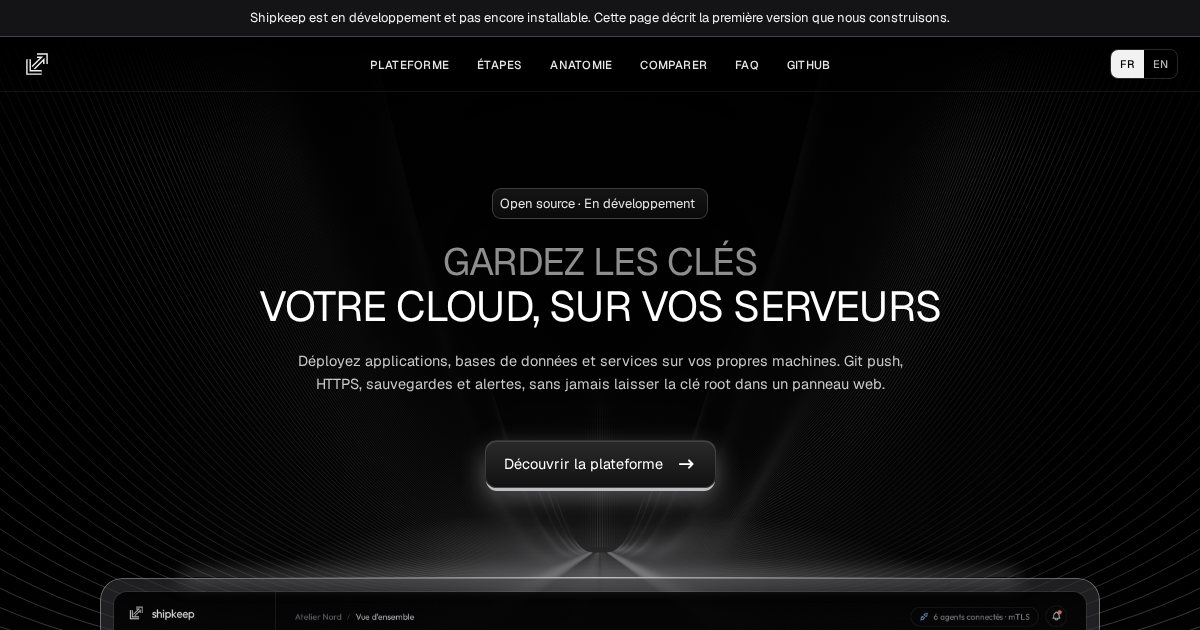
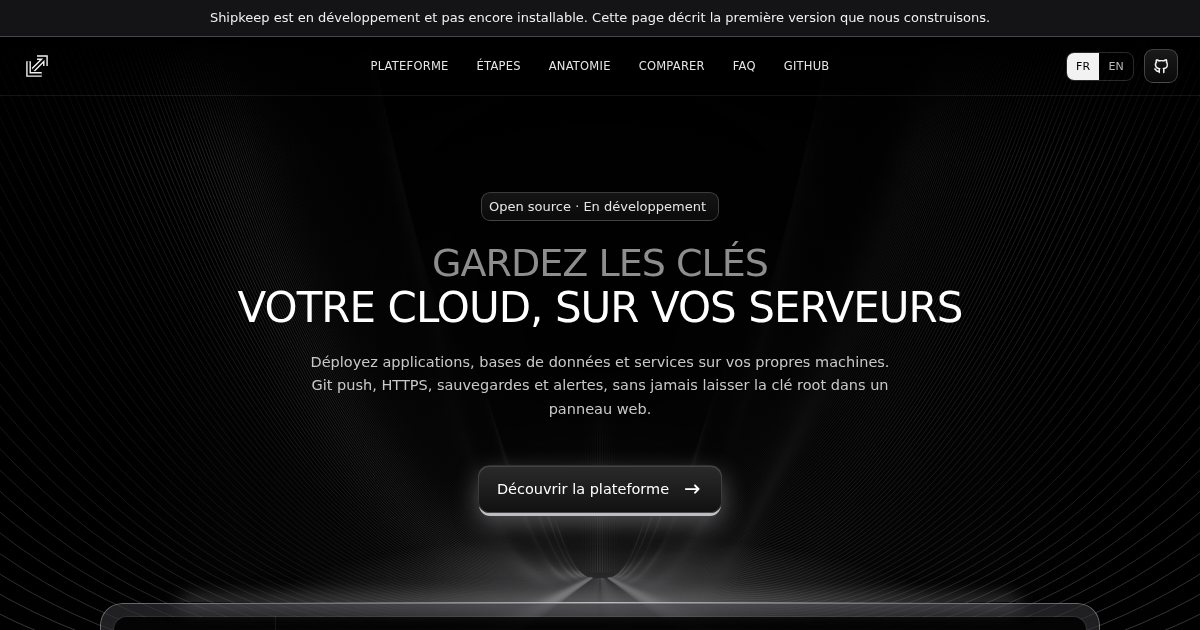
feat(web): link the landing page to the public GitHub repository
The repository is public, so the design's GitHub icon, hero link and
open source button can return. They carry no star or contributor count.

diff --git a/apps/landing/index.html b/apps/landing/index.html
@@ -49,6 +49,8 @@
         <a href="/" hreflang="fr" aria-current="page" style="padding: 7px 9px; cursor: pointer; background: rgb(242, 242, 243); color: rgb(0, 0, 0);">FR</a><a href="/en" hreflang="en" style="padding: 7px 9px; cursor: pointer; background: transparent; color: rgb(184, 184, 188);">EN</a>
       </div>
       
+      <a href="https://github.com/shipkeepdev/shipkeep" rel="noopener" aria-label="Shipkeep sur GitHub" style="width: 34px; height: 34px; border-radius: 9px; border: 1px solid rgba(255, 255, 255, 0.22); background: linear-gradient(rgb(26, 26, 26), rgb(10, 10, 10)); display: grid; place-items: center;"><i class="ti ti-brand-github" aria-hidden="true" style="font-size: 18px;"></i></a>
+      
       <button data-dc-tpl="37" data-m="burger" aria-label="Menu" style="display: none; width: 34px; height: 34px; border-radius: 9px; border: 1px solid rgba(255, 255, 255, 0.22); background: rgb(0, 0, 0); color: rgb(242, 242, 243); place-items: center; cursor: pointer; padding: 0px;"><i data-dc-tpl="38" class="ti ti-menu-2" style="font-size: 18px;"></i></button>
     </div>
   </header>
@@ -71,7 +73,7 @@
   
 
   <div data-dc-tpl="66" data-m="herotxt" style="position: relative; z-index: 3; display: flex; flex-direction: column; align-items: center; text-align: center; padding: 96px 24px 0px;">
-    <a data-dc-tpl="67" href="#plateforme" style="display: flex; align-items: center; gap: 9px; padding: 6px 12px 6px 7px; border-radius: 9px; border: 1px solid rgba(255, 255, 255, 0.2); background: linear-gradient(rgb(21, 21, 21), rgb(10, 10, 10)); font-size: 13px; color: rgb(230, 230, 232);">
+    <a data-dc-tpl="67" href="https://github.com/shipkeepdev/shipkeep" style="display: flex; align-items: center; gap: 9px; padding: 6px 12px 6px 7px; border-radius: 9px; border: 1px solid rgba(255, 255, 255, 0.2); background: linear-gradient(rgb(21, 21, 21), rgb(10, 10, 10)); font-size: 13px; color: rgb(230, 230, 232);">
       
       <span class="sc-interp">Open source · En développement</span>
     </a>
@@ -255,6 +257,7 @@
     <h2 data-dc-tpl="201" data-reveal="" style="margin: 34px 0px 0px; font-weight: 400; text-transform: uppercase; letter-spacing: -0.03em; line-height: 1.1;"><span data-dc-tpl="202" style="display: block; font-size: clamp(26px, 3vw, 34px); color: rgb(142, 142, 142);">Open source</span><span data-dc-tpl="203" style="display: block; font-size: clamp(28px, 3.4vw, 38px);"><span class="sc-interp">Au grand jour</span></span></h2>
     <p data-dc-tpl="204" style="margin: 18px 0px 0px; max-width: 520px; font-size: 14.5px; line-height: 1.6; color: rgb(184, 184, 188);"><span class="sc-interp">Le plan de contrôle, l’agent, la CLI et le modèle de menace sont publics sous licence Apache-2.0. Les contributions sont les bienvenues.</span></p>
     <div data-dc-tpl="205" style="margin-top: 22px; display: flex; gap: 18px; flex-wrap: wrap; justify-content: center; font-family: &quot;Geist Mono&quot;, monospace; font-size: 12px; color: rgb(126, 126, 132);">Apache-2.0</div>
+    <a href="https://github.com/shipkeepdev/shipkeep" rel="noopener" class="scp0" style="margin-top: 36px; display: flex; align-items: center; gap: 12px; padding: 12px 18px; border-radius: 12px; background: linear-gradient(rgb(42, 42, 42), rgb(17, 17, 17)); border: 1px solid rgba(255, 255, 255, 0.14); font-size: 14.5px; box-shadow: rgba(255, 255, 255, 0.12) 0px 1px 0px inset, rgb(190, 190, 194) 0px 4px 0px -1px, rgba(177, 177, 181, 0.45) 0px 10px 26px;">Mettre une étoile sur GitHub<i class="ti ti-arrow-narrow-right" aria-hidden="true" style="font-size: 22px;"></i></a>
     
   </div></section><section data-dc-tpl="215" id="offres" data-screen-label="04 Offres" style="position: relative; padding: 140px 24px 120px; overflow: hidden; background: radial-gradient(60% 60% at 20% 80%, rgba(98, 98, 102, 0.45), transparent 70%), radial-gradient(50% 50% at 90% 20%, rgba(72, 72, 76, 0.35), transparent 70%), rgb(0, 0, 0);">
   <div data-dc-tpl="216" style="max-width: 1100px; margin: 0px auto; display: grid; grid-template-columns: repeat(auto-fit, minmax(min(100%, 360px), 1fr)); gap: 28px; align-items: center;">

diff --git a/apps/landing/en/index.html b/apps/landing/en/index.html
@@ -49,6 +49,8 @@
         <a href="/" hreflang="fr" style="padding: 7px 9px; cursor: pointer; background: transparent; color: rgb(184, 184, 188);">FR</a><a href="/en" hreflang="en" aria-current="page" style="padding: 7px 9px; cursor: pointer; background: rgb(242, 242, 243); color: rgb(0, 0, 0);">EN</a>
       </div>
       
+      <a href="https://github.com/shipkeepdev/shipkeep" rel="noopener" aria-label="Shipkeep on GitHub" style="width: 34px; height: 34px; border-radius: 9px; border: 1px solid rgba(255, 255, 255, 0.22); background: linear-gradient(rgb(26, 26, 26), rgb(10, 10, 10)); display: grid; place-items: center;"><i class="ti ti-brand-github" aria-hidden="true" style="font-size: 18px;"></i></a>
+      
       <button data-dc-tpl="37" data-m="burger" aria-label="Menu" style="display: none; width: 34px; height: 34px; border-radius: 9px; border: 1px solid rgba(255, 255, 255, 0.22); background: rgb(0, 0, 0); color: rgb(242, 242, 243); place-items: center; cursor: pointer; padding: 0px;"><i data-dc-tpl="38" class="ti ti-menu-2" style="font-size: 18px;"></i></button>
     </div>
   </header>
@@ -71,7 +73,7 @@
   
 
   <div data-dc-tpl="66" data-m="herotxt" style="position: relative; z-index: 3; display: flex; flex-direction: column; align-items: center; text-align: center; padding: 96px 24px 0px;">
-    <a data-dc-tpl="67" href="#plateforme" style="display: flex; align-items: center; gap: 9px; padding: 6px 12px 6px 7px; border-radius: 9px; border: 1px solid rgba(255, 255, 255, 0.2); background: linear-gradient(rgb(21, 21, 21), rgb(10, 10, 10)); font-size: 13px; color: rgb(230, 230, 232);">
+    <a data-dc-tpl="67" href="https://github.com/shipkeepdev/shipkeep" style="display: flex; align-items: center; gap: 9px; padding: 6px 12px 6px 7px; border-radius: 9px; border: 1px solid rgba(255, 255, 255, 0.2); background: linear-gradient(rgb(21, 21, 21), rgb(10, 10, 10)); font-size: 13px; color: rgb(230, 230, 232);">
       
       <span class="sc-interp">Open source · In development</span>
     </a>
@@ -255,6 +257,7 @@
     <h2 data-dc-tpl="201" data-reveal="" style="margin: 34px 0px 0px; font-weight: 400; text-transform: uppercase; letter-spacing: -0.03em; line-height: 1.1;"><span data-dc-tpl="202" style="display: block; font-size: clamp(26px, 3vw, 34px); color: rgb(142, 142, 142);">Open source</span><span data-dc-tpl="203" style="display: block; font-size: clamp(28px, 3.4vw, 38px);"><span class="sc-interp">In the open</span></span></h2>
     <p data-dc-tpl="204" style="margin: 18px 0px 0px; max-width: 520px; font-size: 14.5px; line-height: 1.6; color: rgb(184, 184, 188);"><span class="sc-interp">The control plane, the agent, the CLI and the threat model are public under Apache-2.0. Contributions are welcome.</span></p>
     <div data-dc-tpl="205" style="margin-top: 22px; display: flex; gap: 18px; flex-wrap: wrap; justify-content: center; font-family: &quot;Geist Mono&quot;, monospace; font-size: 12px; color: rgb(126, 126, 132);">Apache-2.0</div>
+    <a href="https://github.com/shipkeepdev/shipkeep" rel="noopener" class="scp0" style="margin-top: 36px; display: flex; align-items: center; gap: 12px; padding: 12px 18px; border-radius: 12px; background: linear-gradient(rgb(42, 42, 42), rgb(17, 17, 17)); border: 1px solid rgba(255, 255, 255, 0.14); font-size: 14.5px; box-shadow: rgba(255, 255, 255, 0.12) 0px 1px 0px inset, rgb(190, 190, 194) 0px 4px 0px -1px, rgba(177, 177, 181, 0.45) 0px 10px 26px;">Star on GitHub<i class="ti ti-arrow-narrow-right" aria-hidden="true" style="font-size: 22px;"></i></a>
     
   </div></section><section data-dc-tpl="215" id="offres" data-screen-label="04 Offres" style="position: relative; padding: 140px 24px 120px; overflow: hidden; background: radial-gradient(60% 60% at 20% 80%, rgba(98, 98, 102, 0.45), transparent 70%), radial-gradient(50% 50% at 90% 20%, rgba(72, 72, 76, 0.35), transparent 70%), rgb(0, 0, 0);">
   <div data-dc-tpl="216" style="max-width: 1100px; margin: 0px auto; display: grid; grid-template-columns: repeat(auto-fit, minmax(min(100%, 360px), 1fr)); gap: 28px; align-items: center;">
